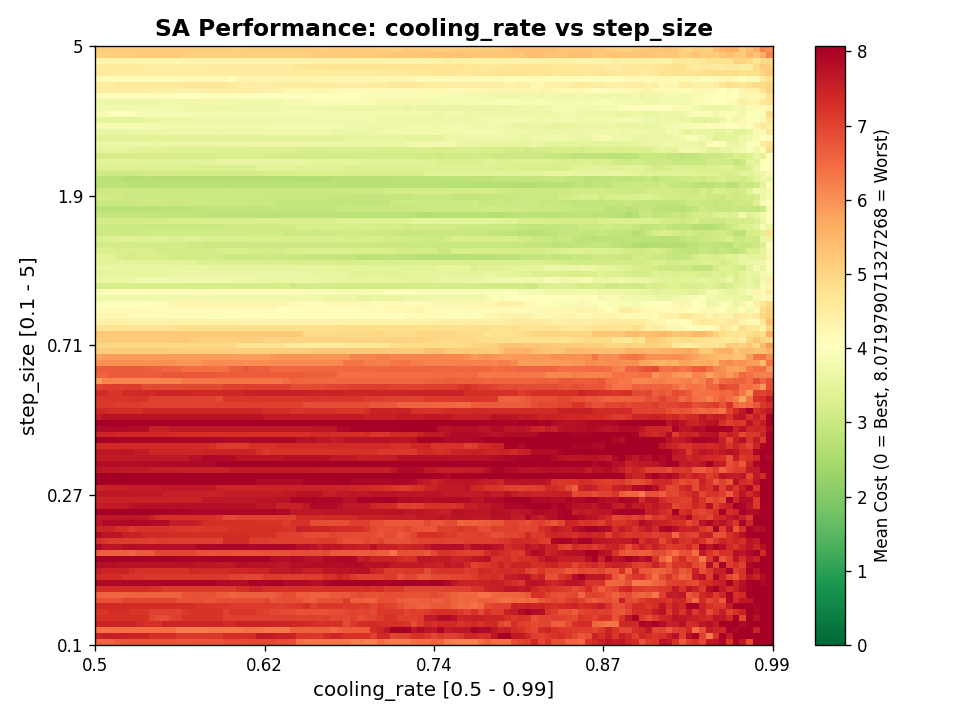
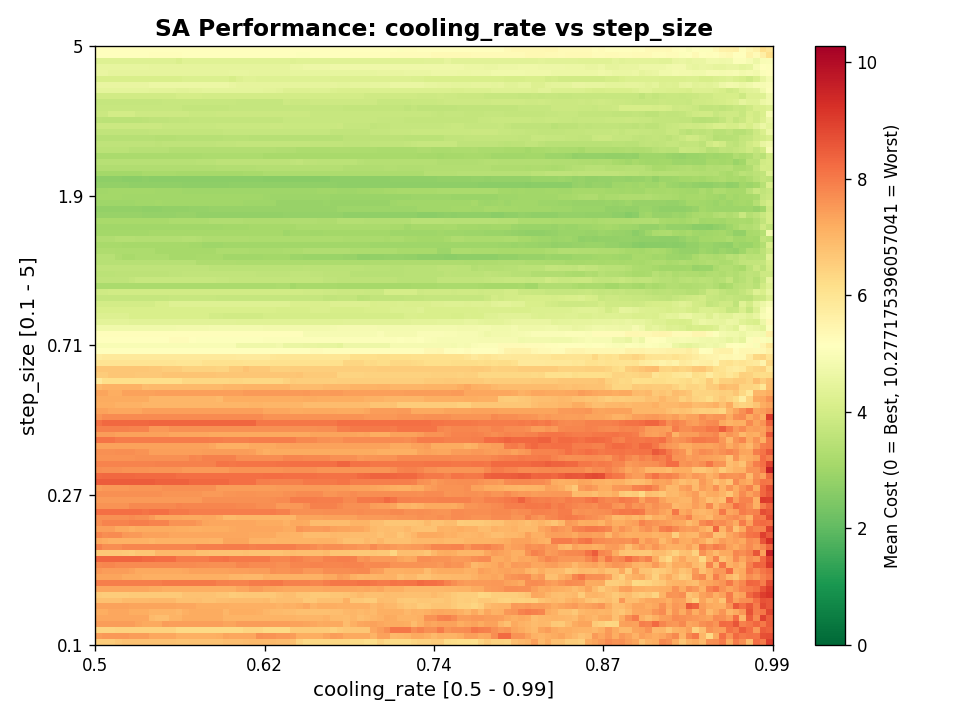
adding visual updates

diff --git a/grid_search_analysis.py b/grid_search_analysis.py
@@ -58,7 +58,7 @@ if len(costs_all) < 100:
     upper_bound = 20
 else:
     # median_cost = 2 * np.median(costs_all)
-    upper_bound = np.percentile(costs_all, 90)
+    upper_bound = np.percentile(costs_all, 95)
 
 # Fixed color scale bounds for Rastrigin 2D function
 # Global minimum: 0, Maximum in bounds [-5.12, 5.12]: ~80
